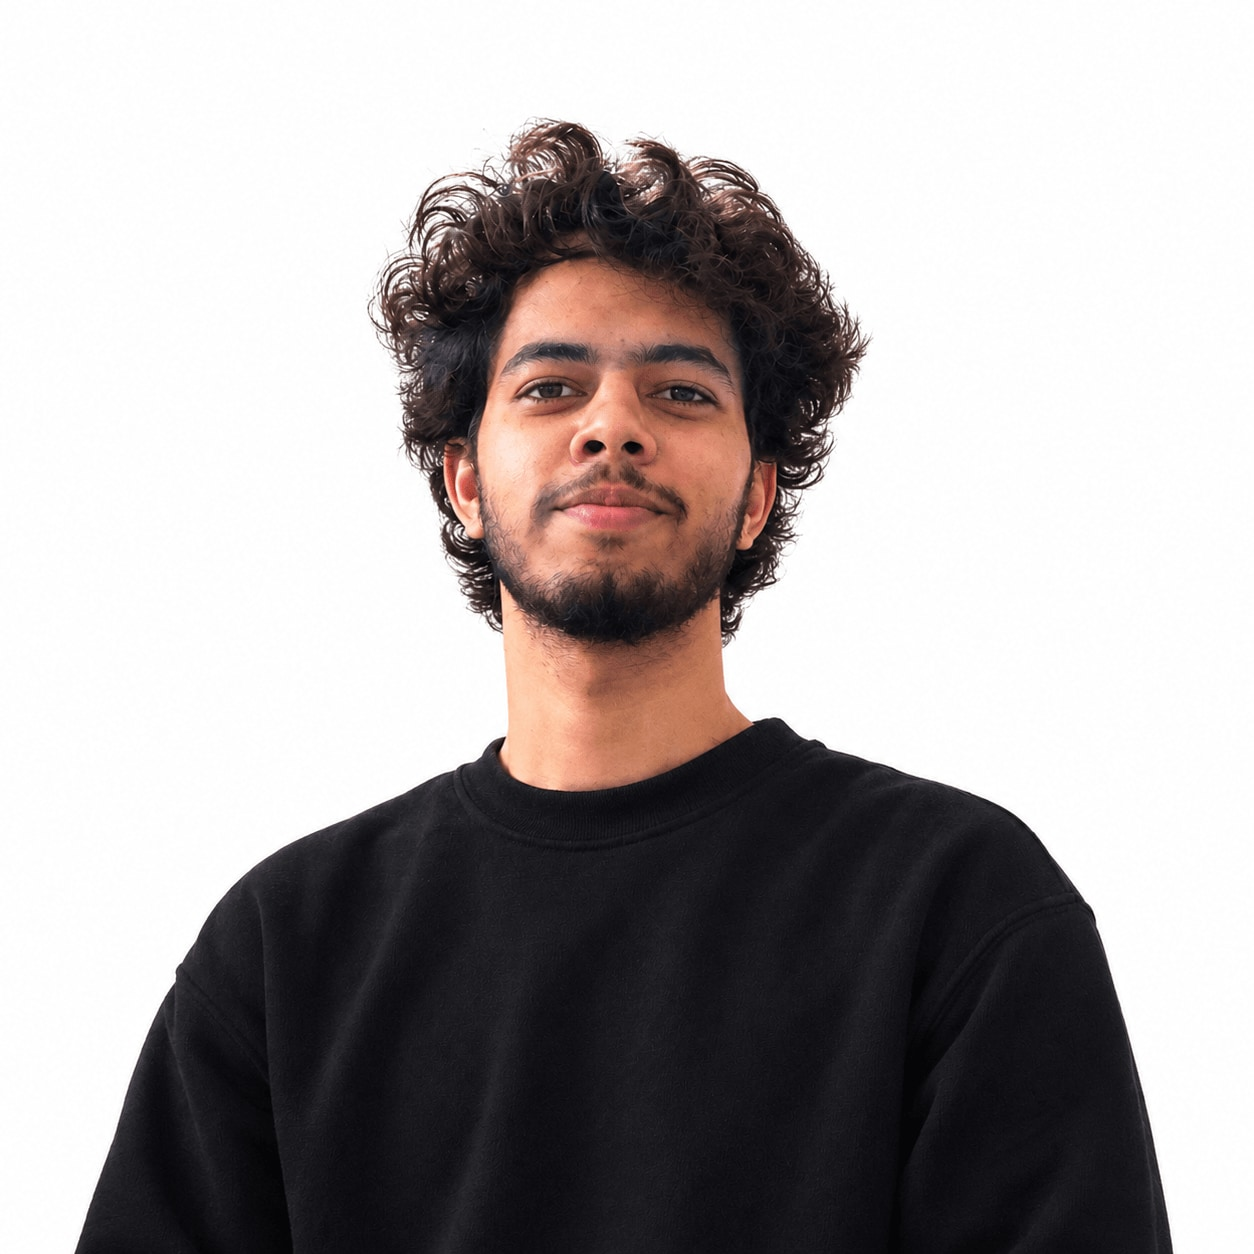
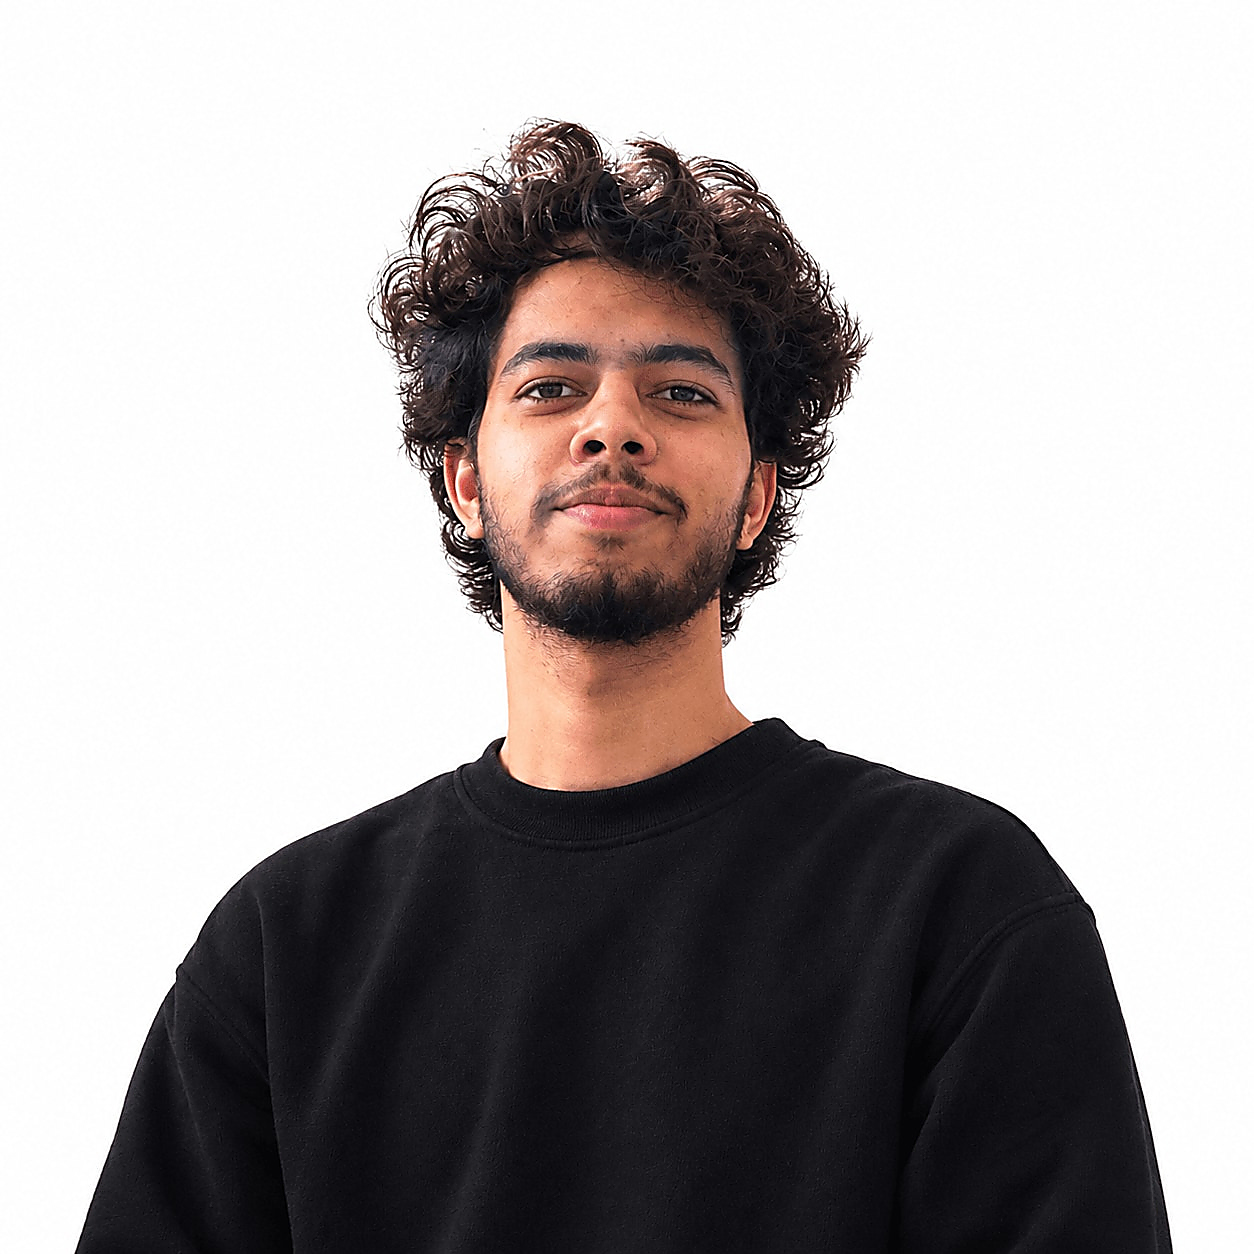
feat(seo): configure profile picture as primary OpenGraph image and Schema.org primaryImageOfPage

Changed region(s): [[0.2799, 0.0933, 0.622, 0.4976], [0.5598, 0.1866, 0.6842, 0.5287], [0.4043, 0.2799, 0.4354, 0.3421]]

diff --git a/app/page.tsx b/app/page.tsx
@@ -11,6 +11,20 @@ export const metadata: Metadata = {
   alternates: {
     canonical: "/",
   },
+  openGraph: {
+    images: [
+      {
+        url: `${siteConfig.url.replace(/\/$/, "")}/profile.jpg`,
+        width: 1254,
+        height: 1254,
+        alt: siteConfig.name,
+      },
+    ],
+  },
+  twitter: {
+    card: "summary_large_image",
+    images: [`${siteConfig.url.replace(/\/$/, "")}/profile.jpg`],
+  },
 };
 
 export default function HomePage() {
@@ -34,12 +48,33 @@ export default function HomePage() {
     sameAs: siteConfig.socials.map((s) => s.href),
   };
 
+  const webPageJsonLd = {
+    "@context": "https://schema.org",
+    "@type": "WebPage",
+    "@id": `${siteUrl}/#webpage`,
+    url: siteUrl,
+    name: siteConfig.title,
+    description: siteConfig.description,
+    primaryImageOfPage: {
+      "@type": "ImageObject",
+      url: `${siteUrl}${siteConfig.avatar}`,
+      contentUrl: `${siteUrl}${siteConfig.avatar}`,
+      caption: siteConfig.name,
+    },
+    image: `${siteUrl}${siteConfig.avatar}`,
+    about: {
+      "@type": "Person",
+      name: siteConfig.name,
+    },
+  };
+
   const websiteJsonLd = {
     "@context": "https://schema.org",
     "@type": "WebSite",
     name: siteConfig.title,
     url: siteUrl,
     description: siteConfig.description,
+    image: `${siteUrl}${siteConfig.avatar}`,
     author: {
       "@type": "Person",
       name: siteConfig.name,
@@ -48,7 +83,7 @@ export default function HomePage() {
 
   return (
     <div className="pt-6 sm:pt-10 space-y-2">
-      <JsonLd data={[personJsonLd, websiteJsonLd]} />
+      <JsonLd data={[personJsonLd, webPageJsonLd, websiteJsonLd]} />
       <Hero />
 
       {/* About */}

diff --git a/app/layout.tsx b/app/layout.tsx
@@ -74,13 +74,23 @@ export const metadata: Metadata = {
     url: siteConfig.url,
     siteName: siteConfig.name,
     locale: "en_US",
-    type: "website",
+    type: "profile",
+    images: [
+      {
+        url: `${siteConfig.url.replace(/\/$/, "")}/profile.jpg`,
+        width: 1254,
+        height: 1254,
+        alt: siteConfig.name,
+        type: "image/jpeg",
+      },
+    ],
   },
   twitter: {
     card: "summary_large_image",
     title: siteConfig.title,
     description: siteConfig.description,
     creator: "@himanshugg_",
+    images: [`${siteConfig.url.replace(/\/$/, "")}/profile.jpg`],
   },
   icons: {
     icon: [

diff --git a/components/Hero.tsx b/components/Hero.tsx
@@ -9,11 +9,11 @@ export function Hero() {
         <Image
           src={siteConfig.avatar}
           alt={`${siteConfig.name}'s profile avatar`}
-          width={112}
-          height={112}
-          sizes="(max-width: 640px) 80px, (max-width: 768px) 96px, 112px"
+          width={224}
+          height={224}
+          quality={95}
+          sizes="(max-width: 640px) 160px, (max-width: 768px) 192px, 224px"
           priority
-          unoptimized
           className="w-full h-full rounded-2xl sm:rounded-[24px] object-cover ring-1 ring-white/10 shadow-sm"
         />
       </div>

diff --git a/next.config.ts b/next.config.ts
@@ -7,6 +7,7 @@ const nextConfig: NextConfig = {
   compress: true,
   images: {
     formats: ["image/avif", "image/webp"],
+    qualities: [75, 90, 95, 100],
   },
   turbopack: {
     rules: {
